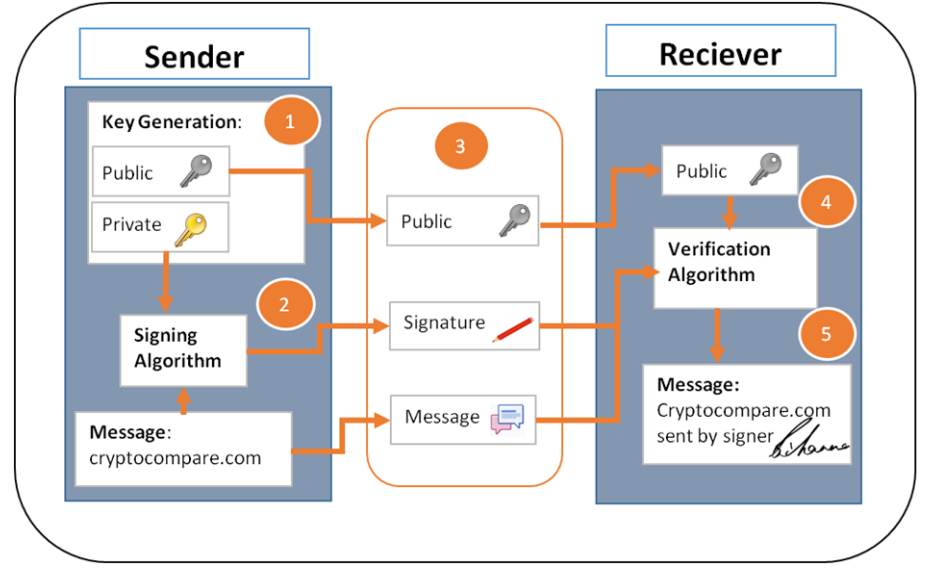
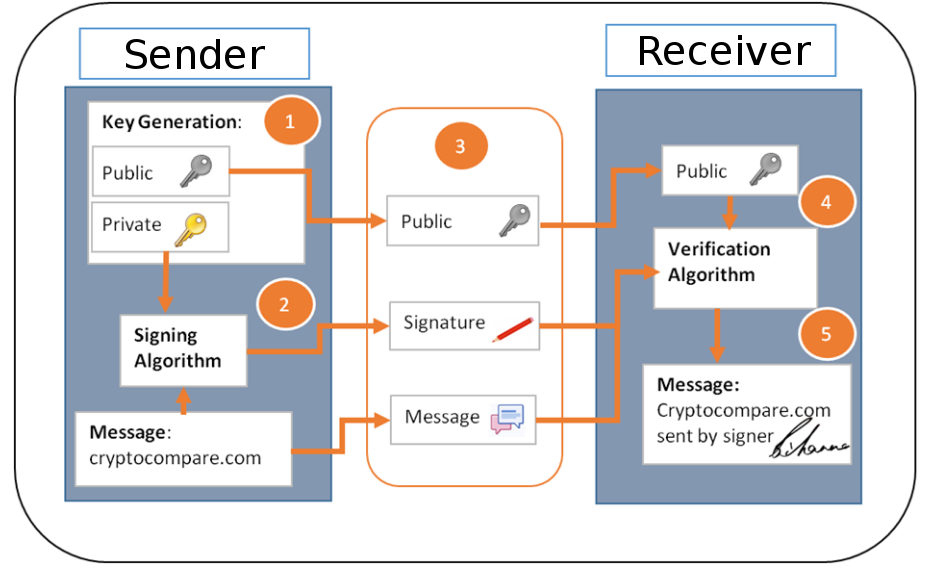
corrected type in diagram

Changed region(s): [[0.6875, 0.0598, 0.875, 0.1195], [0.125, 0.0598, 0.2812, 0.1195]]

diff --git a/src/introduction.tex b/src/introduction.tex
@@ -19,10 +19,12 @@ but infeasible to compute x given y.
 This public key is hashed for compression purposes to form an address.
 This address is what will be present in the decentralized database, for any of operations you partake in.
 
+
 \begin{center}
-\includegraphics[scale = 0.20]{diagrams/transaction_diagram.png}
+\includegraphics[scale = 0.35]{diagrams/transaction_diagram.png}
 \end{center}
 
+\newpage
 
 The diagram above shows how an operation (here a transaction on the bitcoin protocol) is carried out.\\
 1) You create a hash of the operation data (e.g. sender, receiver, message). Your private key is then used to sign this hash,
